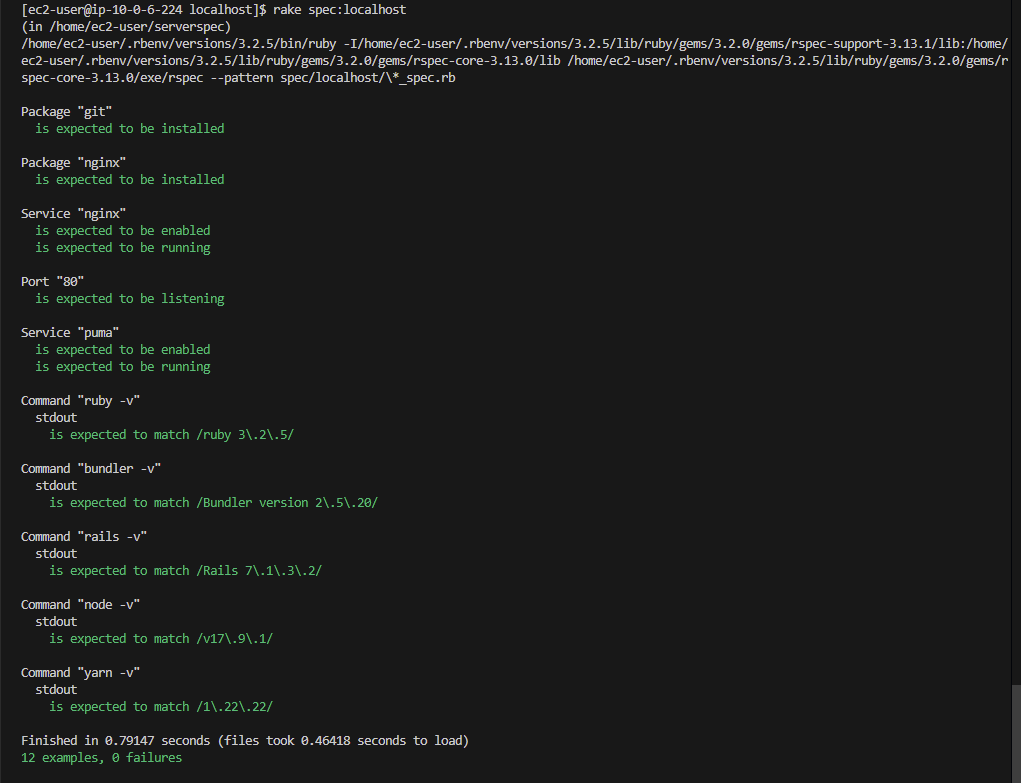
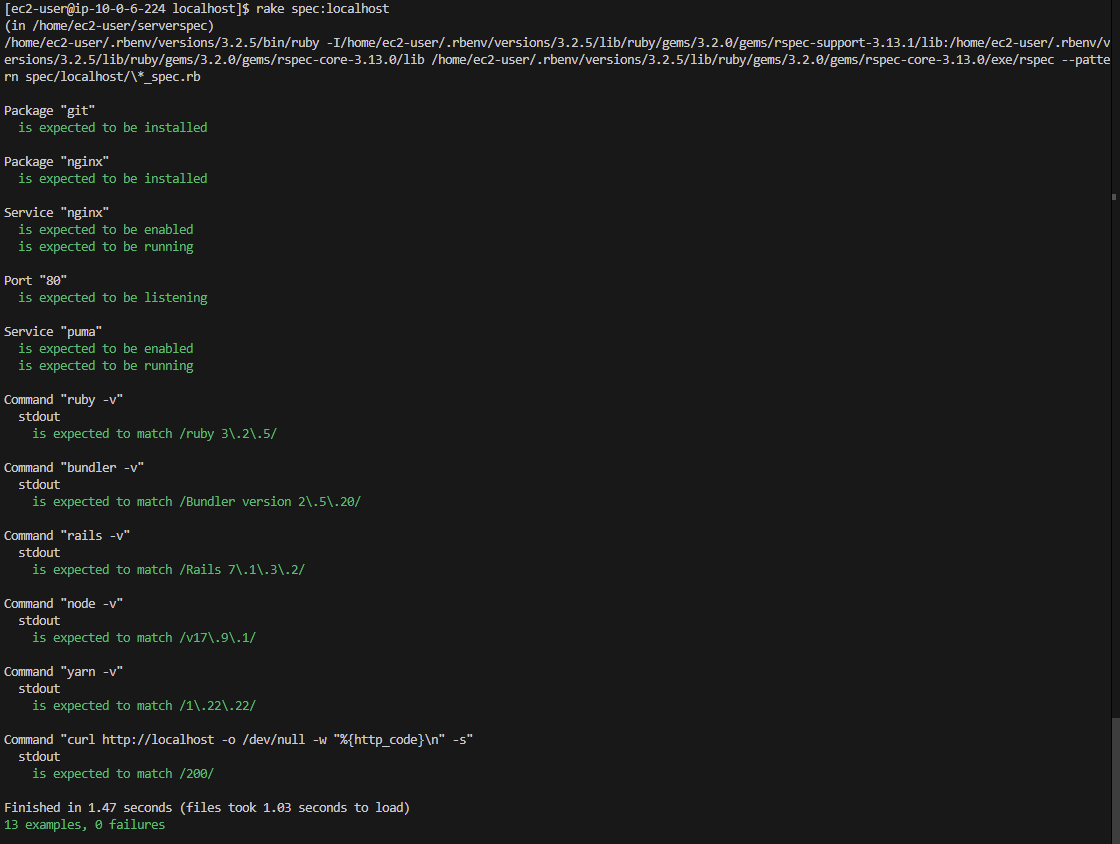
第11回課題 修正

Changed region(s): [[0.0, 0.0, 1.0, 0.9808], [0.9716, 0.8582, 1.0, 0.8889], [0.4251, 0.9195, 0.4554, 0.9502]]

diff --git a/serverspec/lecture_spec.rb b/serverspec/lecture_spec.rb
@@ -51,3 +51,8 @@ end
 describe command('yarn -v') do
   its(:stdout) { should match /1\.22\.22/ }
 end
+
+# curlで接続してステータスコードが200と一致することを確認する
+describe command('curl http://localhost -o /dev/null -w "%{http_code}\n" -s') do
+    its(:stdout) { should match /200/ }
+end
